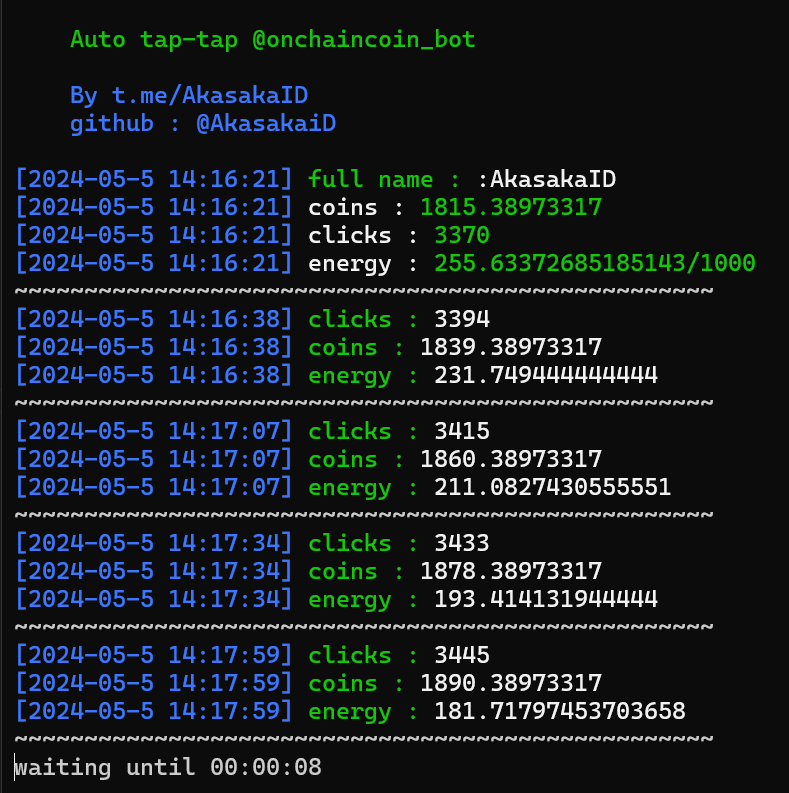
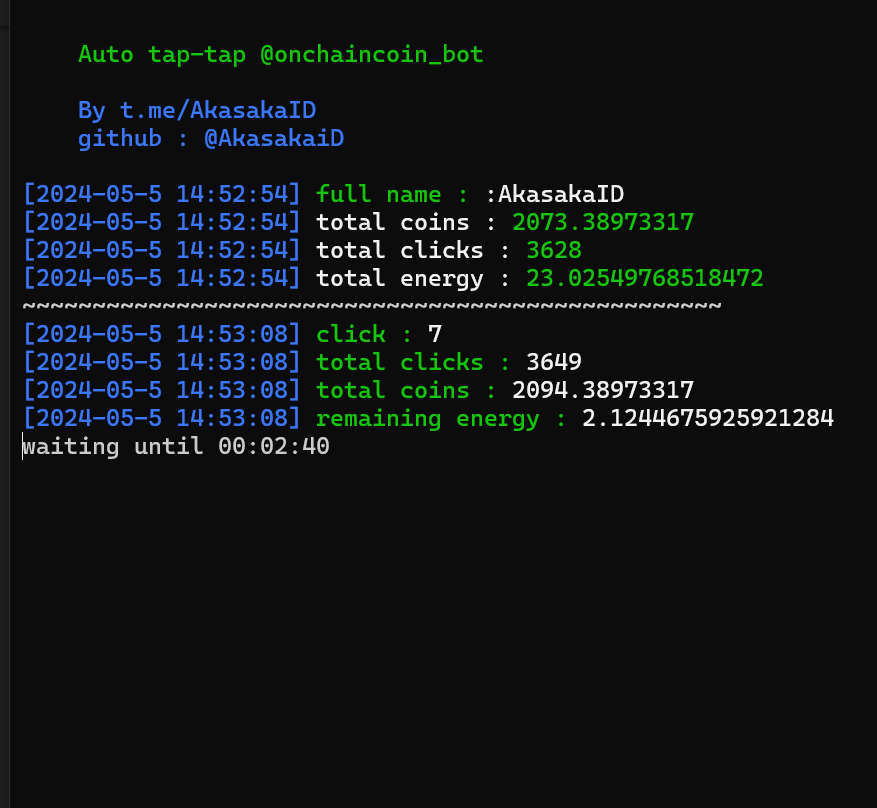
bot.py: update change images/onchain.png

Changed region(s): [[0.0, 0.2119, 0.9734, 0.9987], [0.0913, 0.0303, 0.6084, 0.1816]]

diff --git a/bot.py b/bot.py
@@ -120,9 +120,9 @@ class OnchainBot:
         clicks = res.json()["user"]["clicks"]
         coins = res.json()["user"]["coins"]
         self.log(f"{hijau}full name : {putih}:{name}")
-        self.log(f"{putih}coins : {hijau}{coins}")
-        self.log(f"{putih}clicks : {hijau}{clicks}")
-        self.log(f"{putih}energy : {hijau}{energy}")
+        self.log(f"{putih}total coins : {hijau}{coins}")
+        self.log(f"{putih}total clicks : {hijau}{clicks}")
+        self.log(f"{putih}total energy : {hijau}{energy}")
         print("~" * 50)
 
     def on_login(self):
